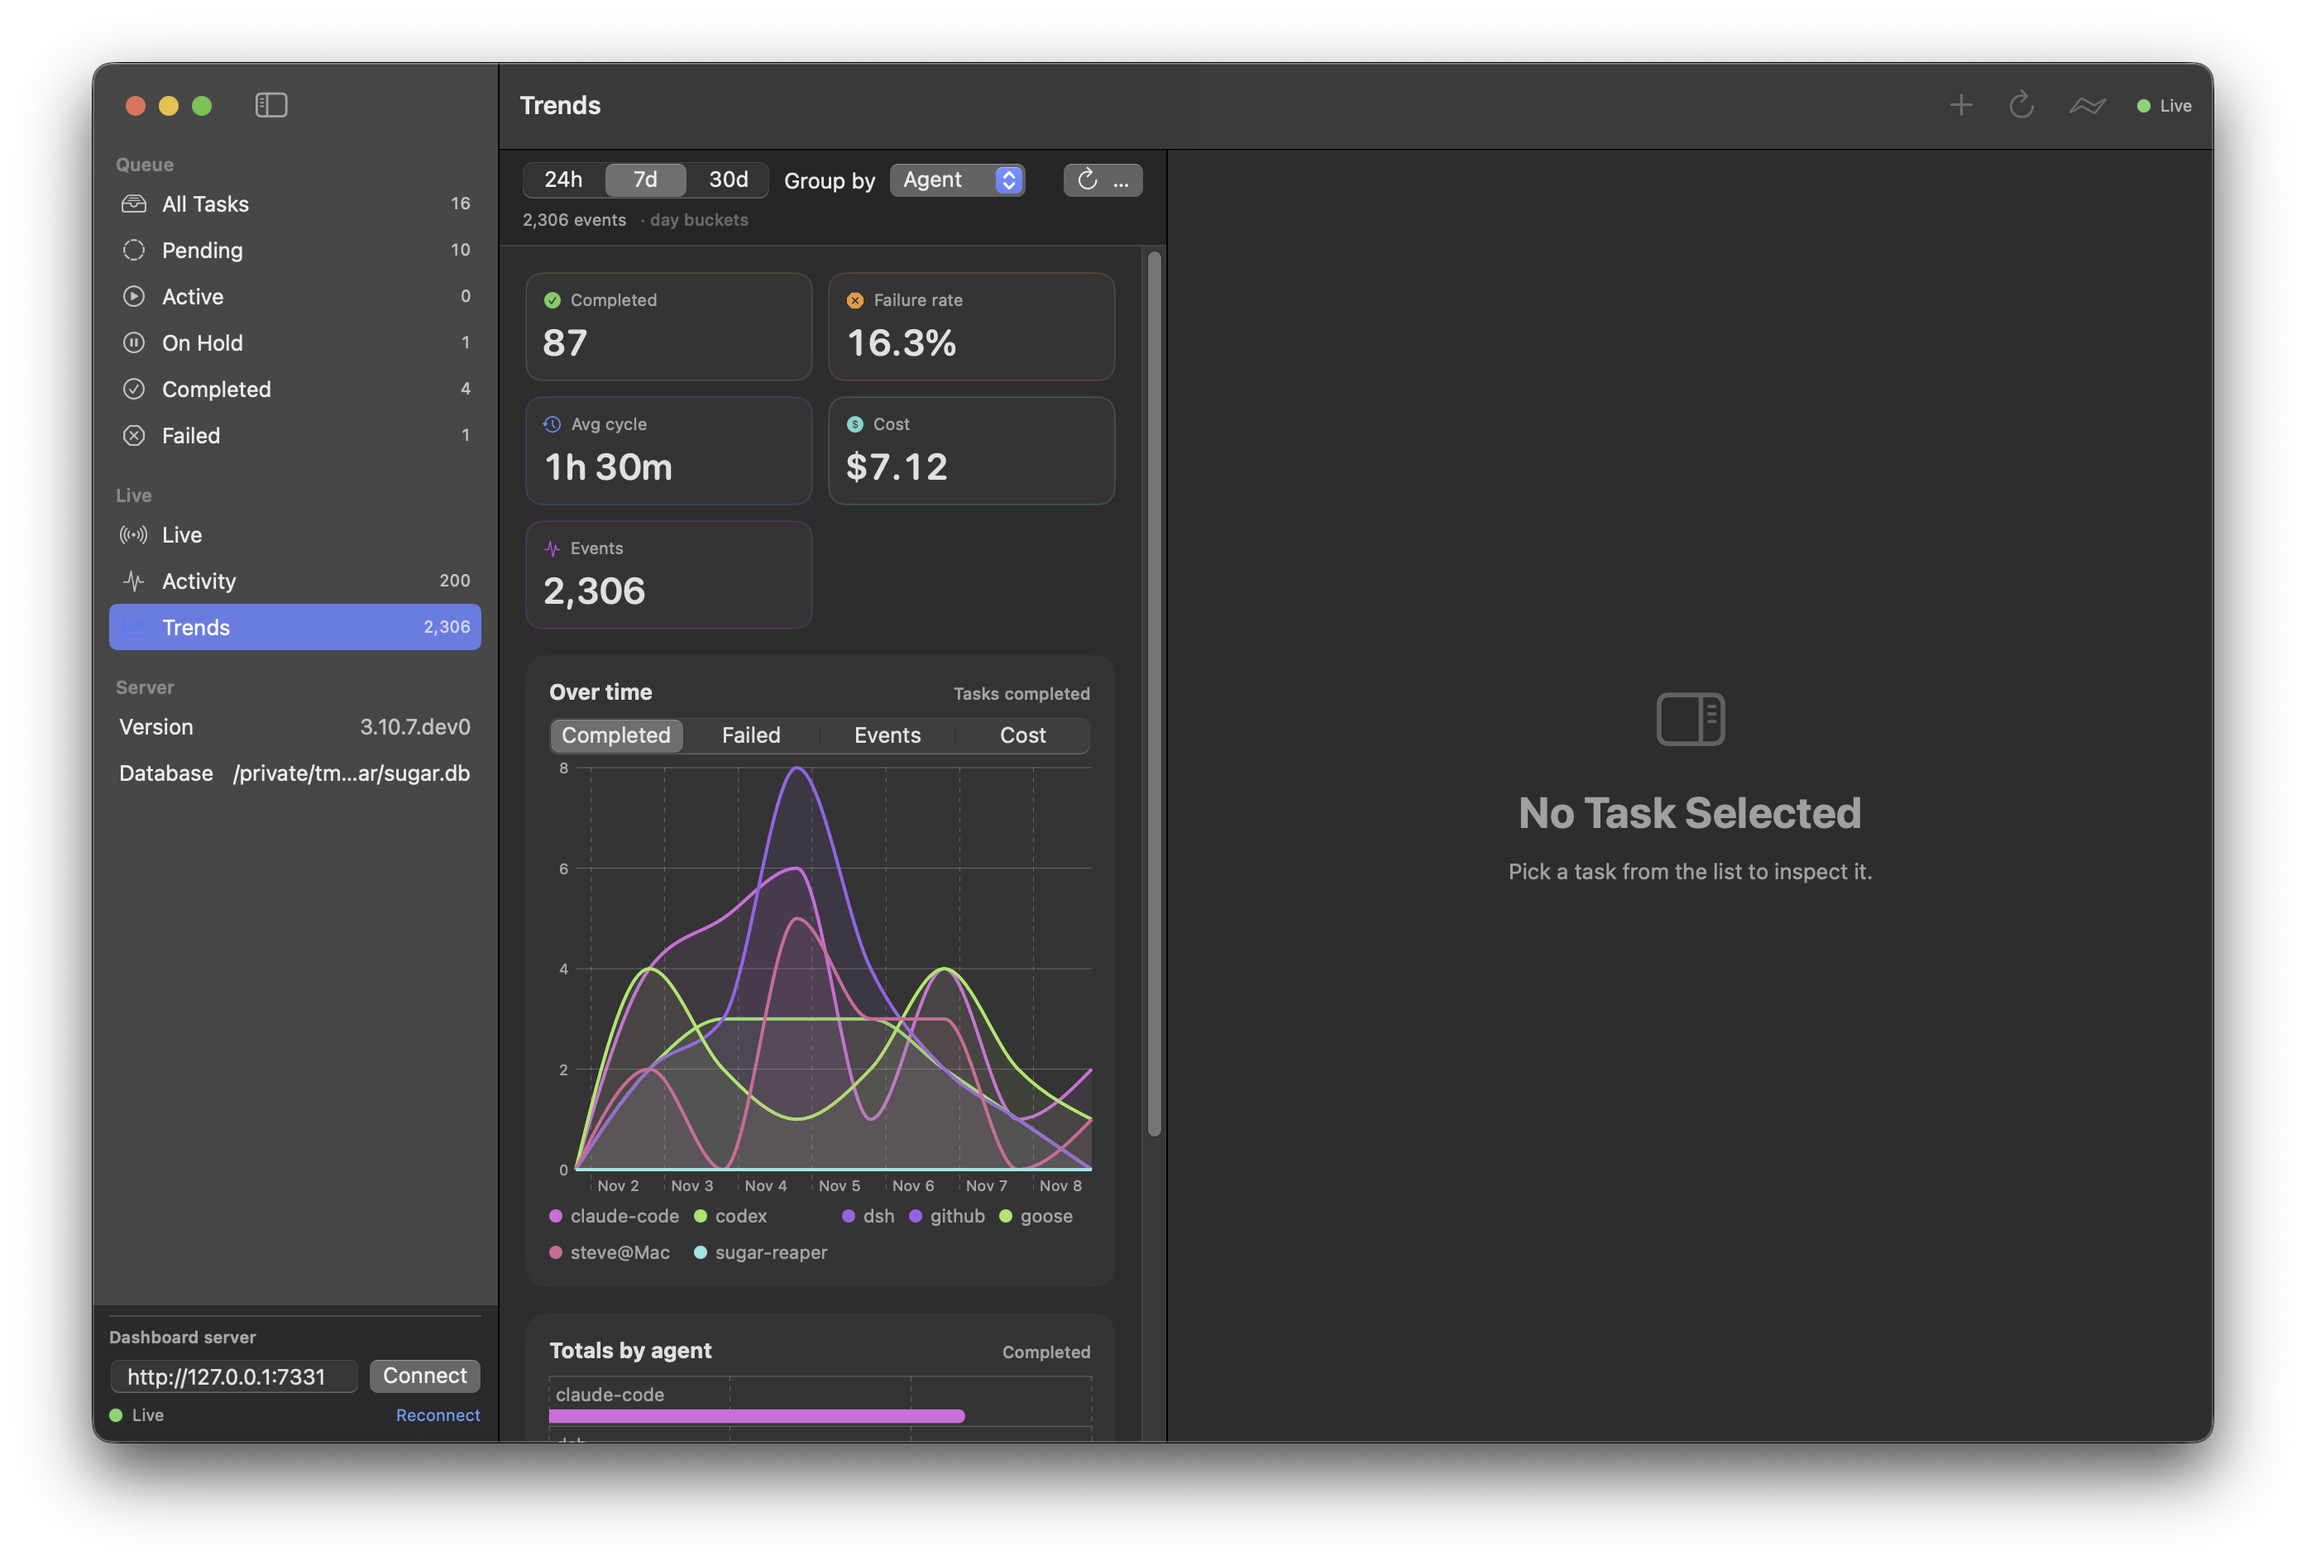
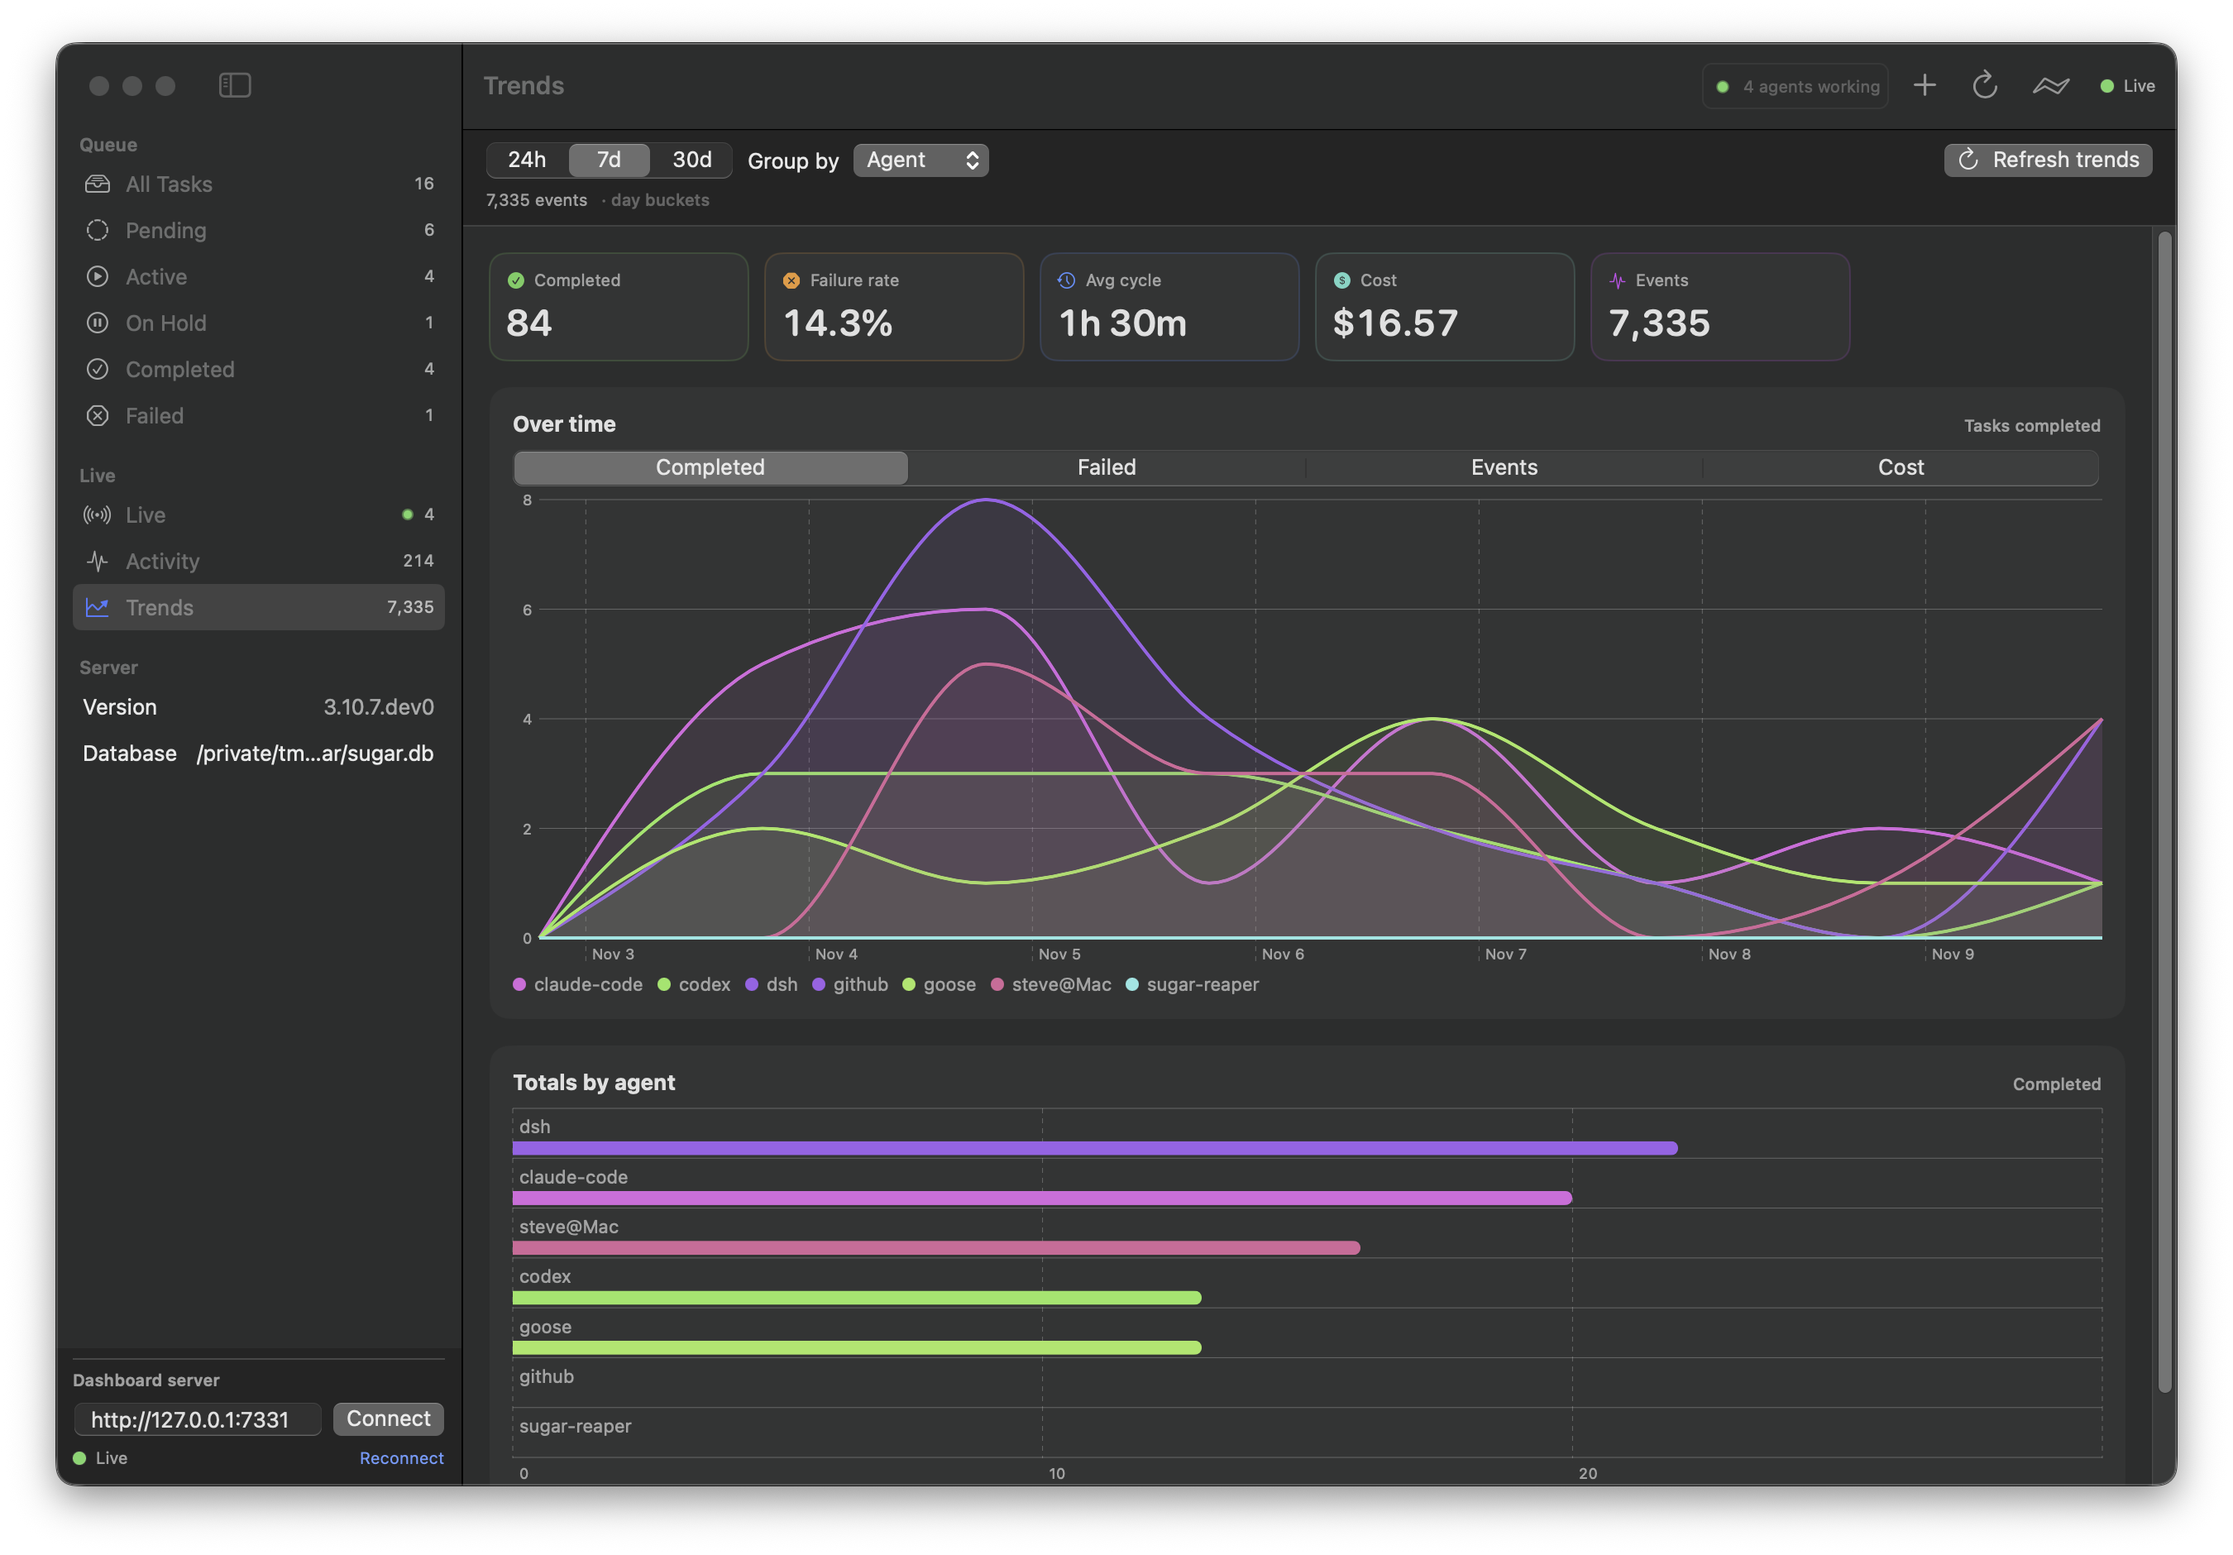
docs: refresh screenshots to the current (inspector) UI
The README/Mission Control images still showed the old three-pane layout with a
'No Task Selected' placeholder. Replace them with current captures: SugarDash
task board + inspector, web live activity feed, and the new full-width Trends
view; drop the stale Live console/floor images.

Site demo video and gallery rebuilt from the same screenshots.

diff --git a/CHANGELOG.md b/CHANGELOG.md
@@ -8,6 +8,9 @@ and this project adheres to [Semantic Versioning](https://semver.org/spec/v2.0.0
 ## [Unreleased]
 
 ### Changed
+- **Fresh product screenshots.** Replaced the pre-inspector Live captures (which still showed the old three-pane "No Task Selected" layout) with current UI screenshots in the README and Mission Control docs: the SugarDash task board with the inspector open, the web live-activity feed, and the new full-width Trends view. The site demo video and gallery were rebuilt from the same set.
+
+### Changed
 - **Marketing metadata now matches the coordination positioning.** PyPI description, MCP registry `server.json`, Claude Code plugin marketplace listing, npm MCP package description/keywords, and the docs index/quick-start/installation/FAQ/architecture intros now describe Sugar as the coordination and evidence layer for agent fleets (durable board, Mission Control, provenance/cost/audit, shared memory) instead of a memory-only add-on. No runtime behavior changes.
 
 ### Added

diff --git a/docs/mission-control.md b/docs/mission-control.md
@@ -252,12 +252,12 @@ optional diagnostics, nothing sent automatically), recorded locally as a
 heartbeat — actor, task, ticking elapsed/lease countdowns, lease-health dots and a live
 activity ticker (no DB writes, no audit noise), falling back to task leases on older servers.
 
-![SugarDash Live view: agents at work](images/live-agents.png)
+![SugarDash task board with the inspector open](images/app-tasks.png)
 
 With harness telemetry (`sugar emit`) or the simulator, each card shows the agent's
 current action and the streaming console shows the raw event feed:
 
-![SugarDash Live console: streaming agent activity](images/live-console.png)
+![Sugar Mission Control live activity feed](images/dashboard-activity.png)
 
 About window with version/build, project links, a no-telemetry privacy statement
 and "Copy diagnostics"; Help menu links to docs, issue tracker, privacy, terms and

diff --git a/README.md b/README.md
@@ -17,7 +17,7 @@ Atomic claims, live agent activity, cost attribution and tamper-evident history.
 
 [Quick start](#quick-start) · [See it work](#see-your-fleet-work) · [Why Sugar](#why-sugar) · [Works with](#works-with-your-harnesses) · [Docs](docs/README.md) · [Team edition](#team-edition-self-hosted)
 
-<img src="docs/images/live-console.png" alt="SugarDash Live console: three agents working, each streaming tool calls" width="880">
+<img src="docs/images/app-tasks.png" alt="SugarDash: the task board with a task inspector open, live activity and history" width="880">
 
 </div>
 
